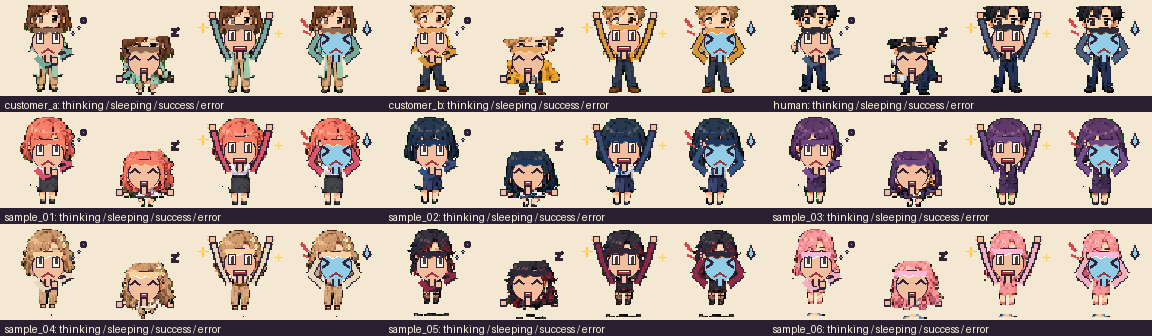
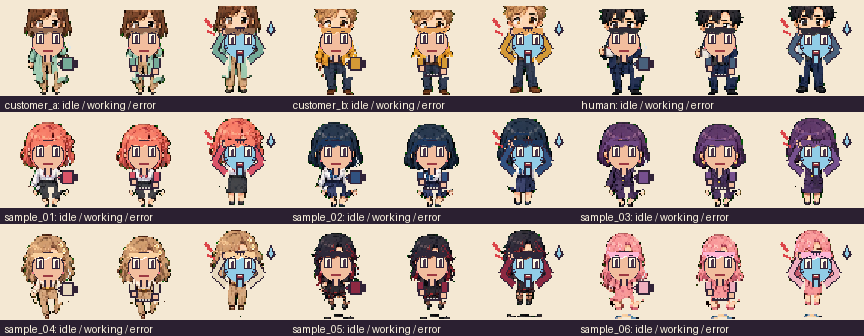
feat(pixel): rounds 16-17 (error-face redesign, corridor fill, unified tone)

diff --git a/server/static/workspace/pixel/modules/scene-render.js b/server/static/workspace/pixel/modules/scene-render.js
@@ -90,6 +90,9 @@ export class SceneRenderer {
     } : null;
     canvas.width = scene.canvas.w;
     canvas.height = scene.canvas.h;
+    this.toneCanvas = document.createElement("canvas");
+    this.toneCanvas.width = scene.canvas.w;
+    this.toneCanvas.height = scene.canvas.h;
   }
 
   setLighting(mode) {
@@ -237,6 +240,7 @@ export class SceneRenderer {
     this.drawLighting();
     this.drawPaletteUnifier();
     this.drawVignette();
+    this.applyUnifiedTone();
   }
 
   drawFloor() {
@@ -333,7 +337,31 @@ export class SceneRenderer {
       }
     }
 
+    this.drawCorridorPaving();
     this.drawFloorAmbient();
+  }
+
+  drawCorridorPaving() {
+    const path = this.scene.zones.path;
+    const entrance = this.scene.zones.entrance;
+    if (!path) return;
+    const [x1, y1, x2, pathBottom] = path.rect;
+    const y2 = Math.min(pathBottom, (entrance?.rect?.[1] ?? pathBottom + 1) + 1);
+    const ctx = this.ctx;
+    ctx.save();
+    for (let tileY = y1; tileY <= y2; tileY += 1) {
+      for (let tileX = x1; tileX <= x2; tileX += 1) {
+        ctx.globalAlpha = 0.09;
+        ctx.fillStyle = (tileX + tileY) % 2 ? "#f1ddba" : "#8f7965";
+        ctx.fillRect(
+          tileX * this.tile + 1,
+          tileY * this.tile + 1,
+          this.tile - 2,
+          this.tile - 2,
+        );
+      }
+    }
+    ctx.restore();
   }
 
   drawFloorAmbient() {
@@ -818,6 +846,29 @@ export class SceneRenderer {
       ctx.fillRect(centerX - 8, footY - 60, 16, 8);
       ctx.fillStyle = Math.floor(timeSeconds * 2) % 2 ? "#ffe5a5" : "#f6ce7e";
       ctx.fillRect(centerX - 5, footY - 57, 10, 5);
+    } else if (type === "guide_lamp") {
+      const centerX = Math.round(x + width / 2);
+      drawGroundShadow(ctx, centerX, footY - 2, 8, 3);
+      ctx.fillStyle = "#3a2f33";
+      ctx.fillRect(centerX - 5, footY - 5, 10, 4);
+      ctx.fillRect(centerX - 1, footY - 22, 3, 18);
+      ctx.fillStyle = "#b97b4b";
+      ctx.fillRect(centerX - 6, footY - 27, 12, 6);
+      ctx.fillStyle = "#ffe1a0";
+      ctx.fillRect(centerX - 3, footY - 25, 6, 3);
+    } else if (type === "guide_sign") {
+      const centerX = Math.round(x + width / 2);
+      drawGroundShadow(ctx, centerX, footY - 2, 9, 3);
+      ctx.fillStyle = "#3a2f33";
+      ctx.fillRect(centerX - 2, footY - 19, 4, 17);
+      ctx.fillStyle = "#5b3928";
+      ctx.fillRect(centerX - 13, footY - 28, 26, 11);
+      ctx.fillStyle = "#d6aa6e";
+      ctx.fillRect(centerX - 11, footY - 26, 22, 7);
+      ctx.fillStyle = "#624331";
+      const direction = Math.round(x / this.tile) % 2 ? -1 : 1;
+      ctx.fillRect(centerX - 5, footY - 24, 10, 2);
+      ctx.fillRect(centerX + direction * 4, footY - 26, 2, 6);
     }
     ctx.restore();
   }
@@ -1051,6 +1102,20 @@ export class SceneRenderer {
     ctx.globalAlpha = 0.05;
     ctx.fillStyle = "#ffedd6";
     ctx.fillRect(0, 0, this.canvas.width, this.canvas.height);
+    ctx.restore();
+  }
+
+  applyUnifiedTone() {
+    const ctx = this.ctx;
+    if (!("filter" in ctx)) return;
+    const toneCtx = this.toneCanvas.getContext("2d");
+    toneCtx.imageSmoothingEnabled = false;
+    toneCtx.clearRect(0, 0, this.toneCanvas.width, this.toneCanvas.height);
+    toneCtx.drawImage(this.canvas, 0, 0);
+    ctx.save();
+    ctx.imageSmoothingEnabled = false;
+    ctx.filter = "saturate(1.03) contrast(1.03)";
+    ctx.drawImage(this.toneCanvas, 0, 0);
     ctx.restore();
   }
 

diff --git a/server/static/workspace/pixel/modules/scene-layout.js b/server/static/workspace/pixel/modules/scene-layout.js
@@ -284,23 +284,42 @@ export function generateScene(animas, template) {
       h: 1,
       sprite: "trash_bin",
     },
-    corridor_plant_left: {
-      tile: [pathZone[0], pathZone[1] + 1],
+    corridor_lamp_left: {
+      tile: [pathZone[0] - 0.5, pathZone[1]],
       w: 1,
-      h: 2,
+      h: 1,
+      decor: "guide_lamp",
+    },
+    corridor_sign_left: {
+      tile: [pathZone[0] - 0.5, pathZone[1] + 1],
+      w: 1,
+      h: 1,
+      decor: "guide_sign",
+    },
+    corridor_plant_left: {
+      tile: [pathZone[0] - 0.5, pathZone[1] + 2],
+      w: 1,
+      h: 1,
       sprite: "plant",
     },
     corridor_plant_right: {
-      tile: [pathZone[2], pathZone[1]],
+      tile: [pathZone[2] + 0.5, pathZone[1]],
       w: 1,
-      h: 2,
+      h: 1,
       sprite: "plant",
     },
-    corridor_guide: {
-      tile: [pathZone[2], pathZone[1] + 3],
+    corridor_sign_right: {
+      tile: [pathZone[2] + 0.5, pathZone[1] + 1],
       w: 1,
-      h: 2,
-      sprite: "sign_stand",
+      h: 1,
+      decor: "guide_sign",
+      flip: true,
+    },
+    corridor_lamp_right: {
+      tile: [pathZone[2] + 0.5, pathZone[1] + 2],
+      w: 1,
+      h: 1,
+      decor: "guide_lamp",
     },
     cat: { tile: [rects.at(-1)[0] + 2, 14], w: 1, h: 1, sprite: "cat" },
     cat_bed: { tile: [rects.at(-1)[0] + 3, 15], w: 1, h: 1, sprite: "cat_bed" },
